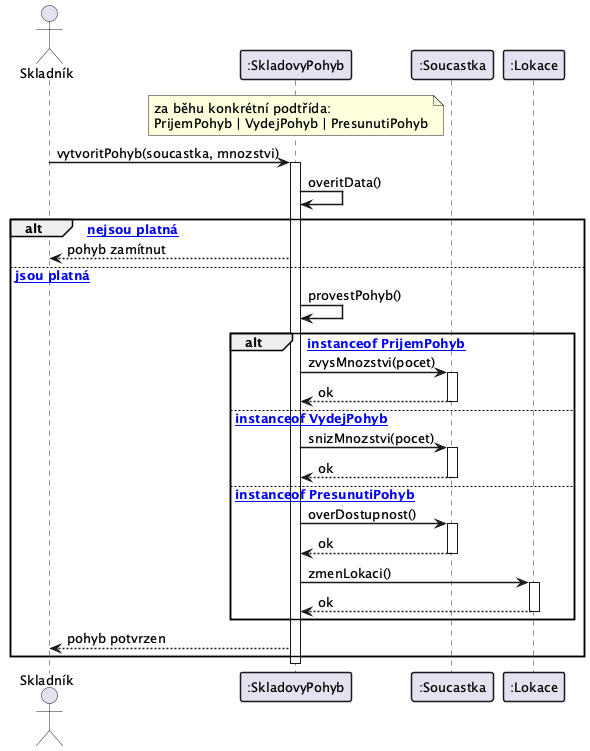
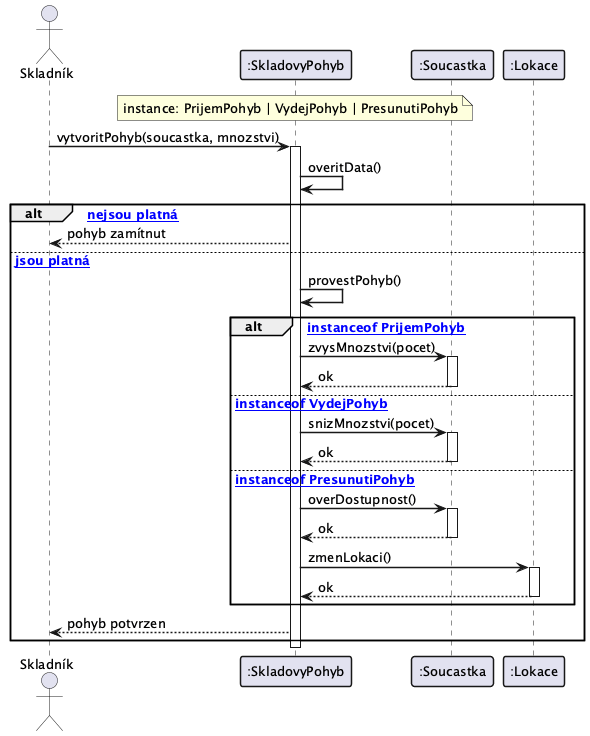
fix: note v sekv. diagramu, zvetseni use case obrazku

diff --git a/docs/chapters/datovy_model.tex b/docs/chapters/datovy_model.tex
@@ -200,7 +200,7 @@ Stav součástky je řízen těmito metodami:
 
 \begin{figure}[H]
   \centering
-  \makebox[\textwidth][c]{\includegraphics[width=0.95\textwidth]{01_use_case.png}}
+  \makebox[\textwidth][c]{\includegraphics[width=1.2\textwidth]{01_use_case.png}}
   \caption{Use Case diagram}
   \label{fig:use_case}
 \end{figure}
